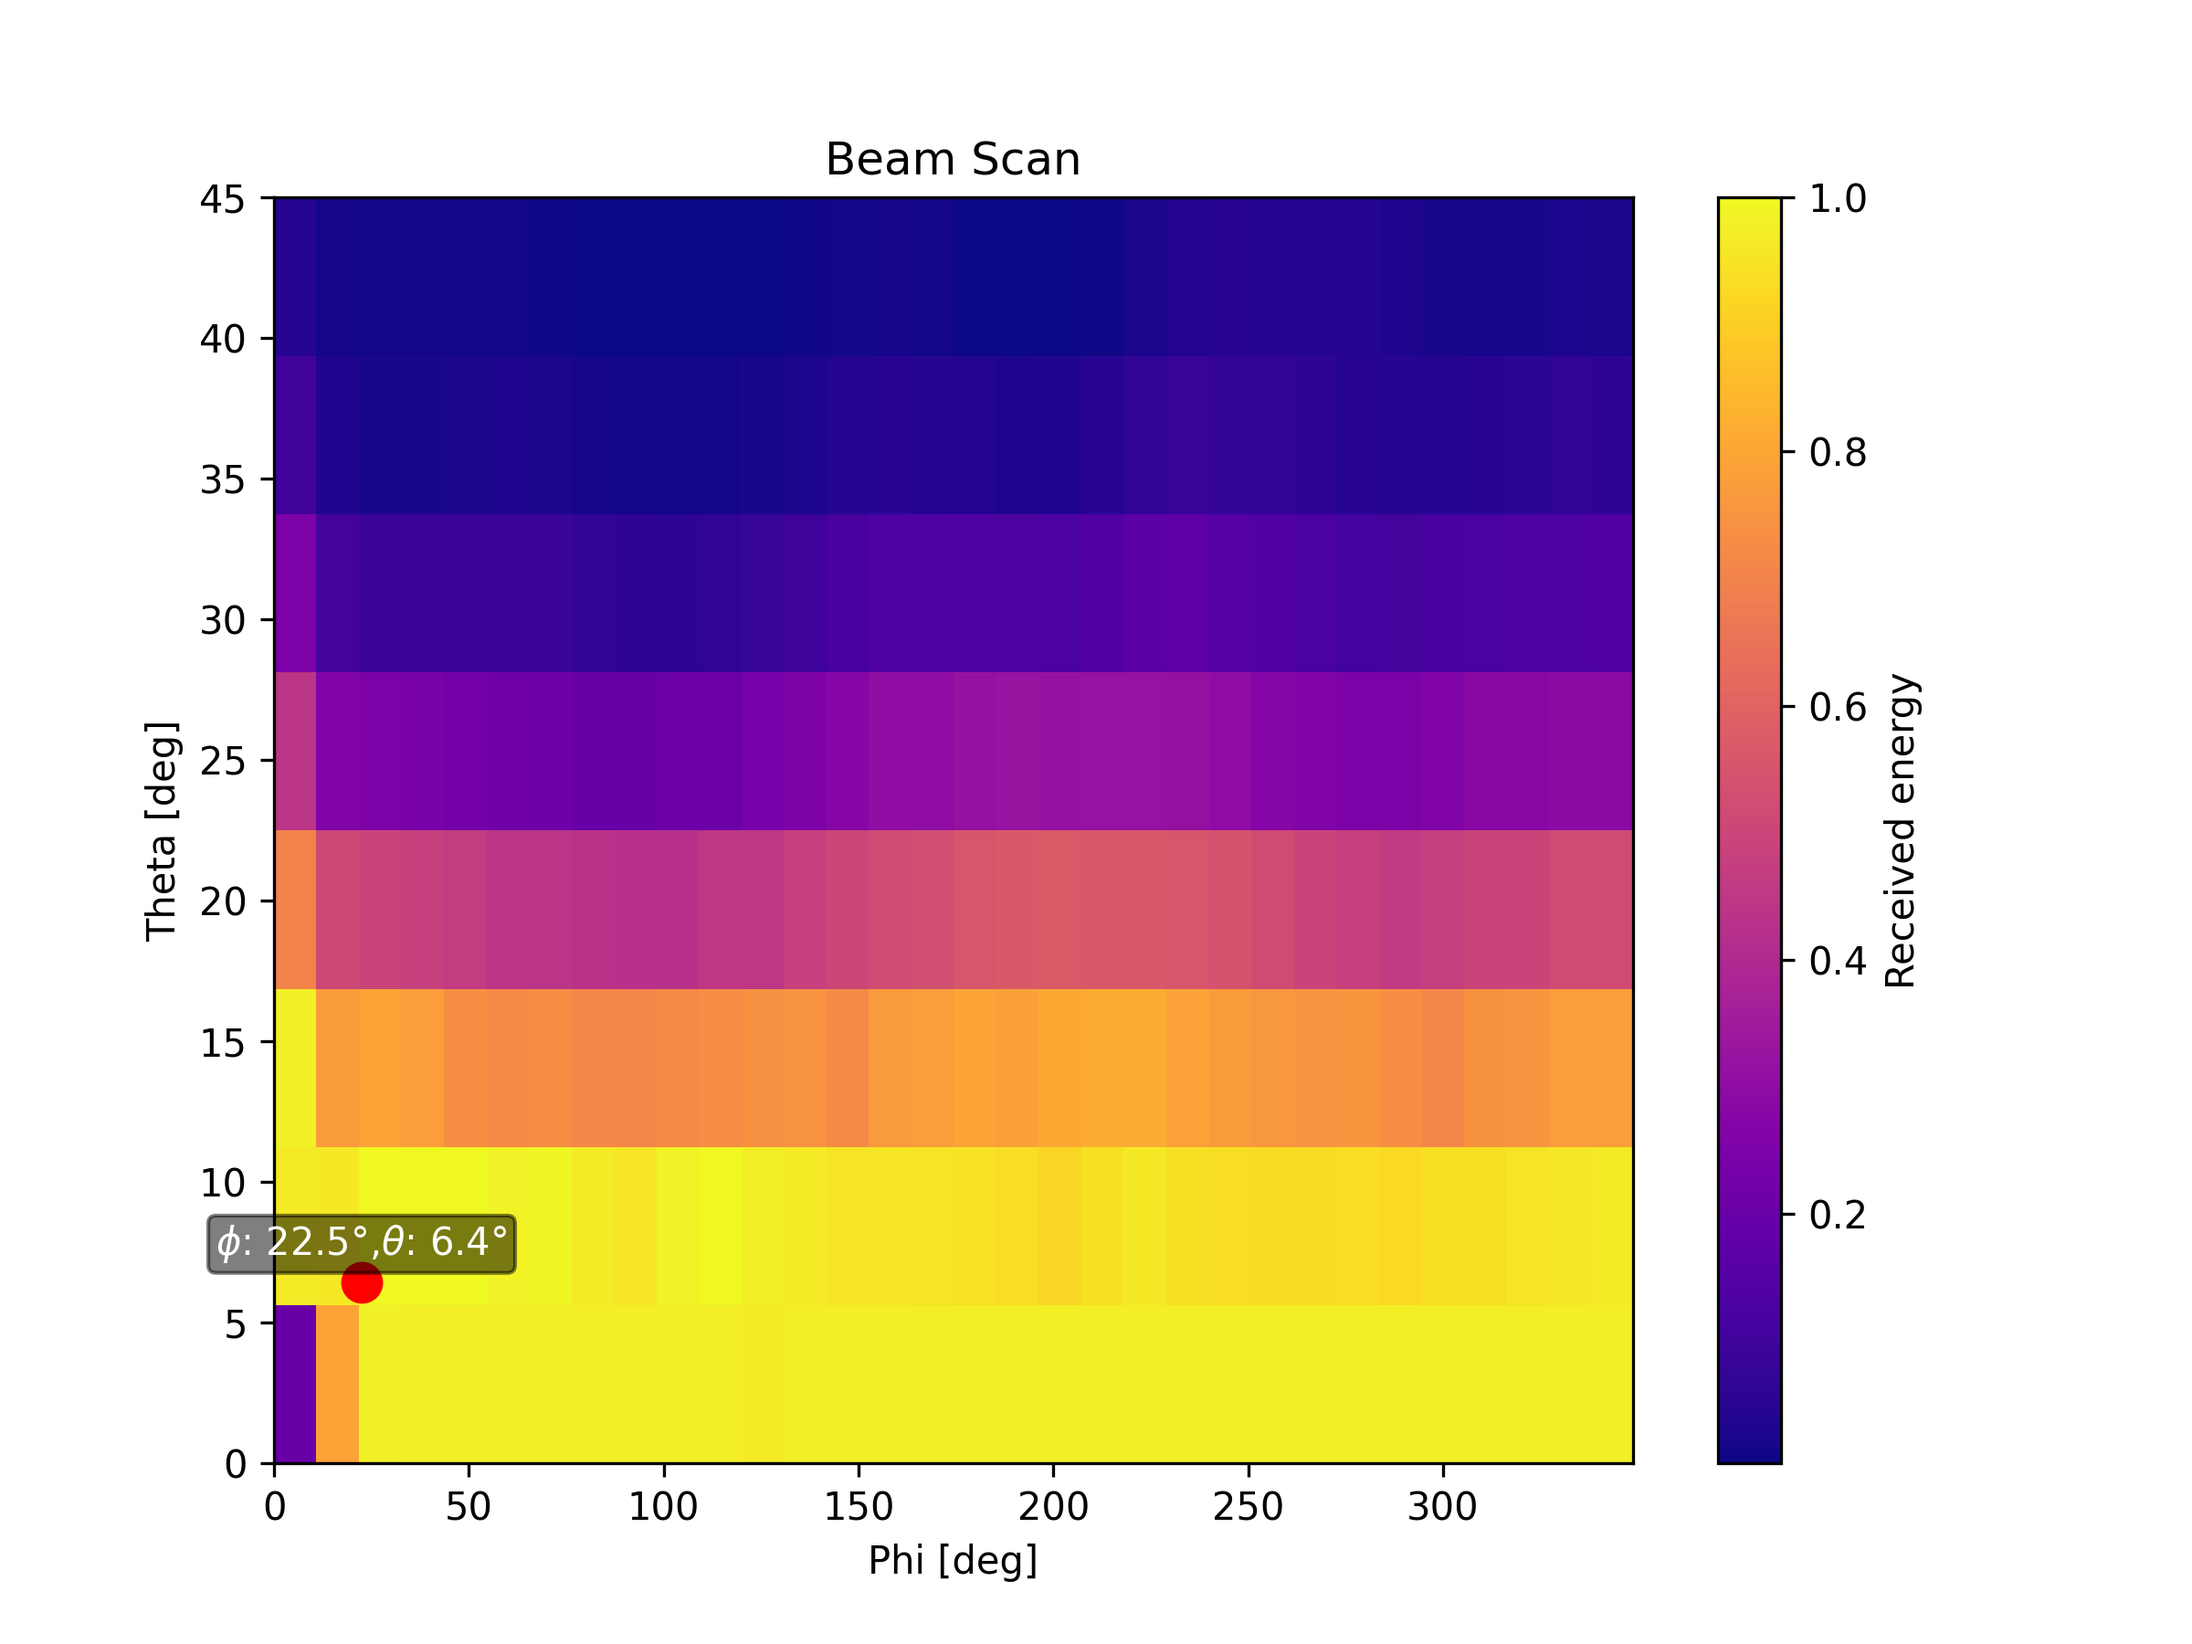
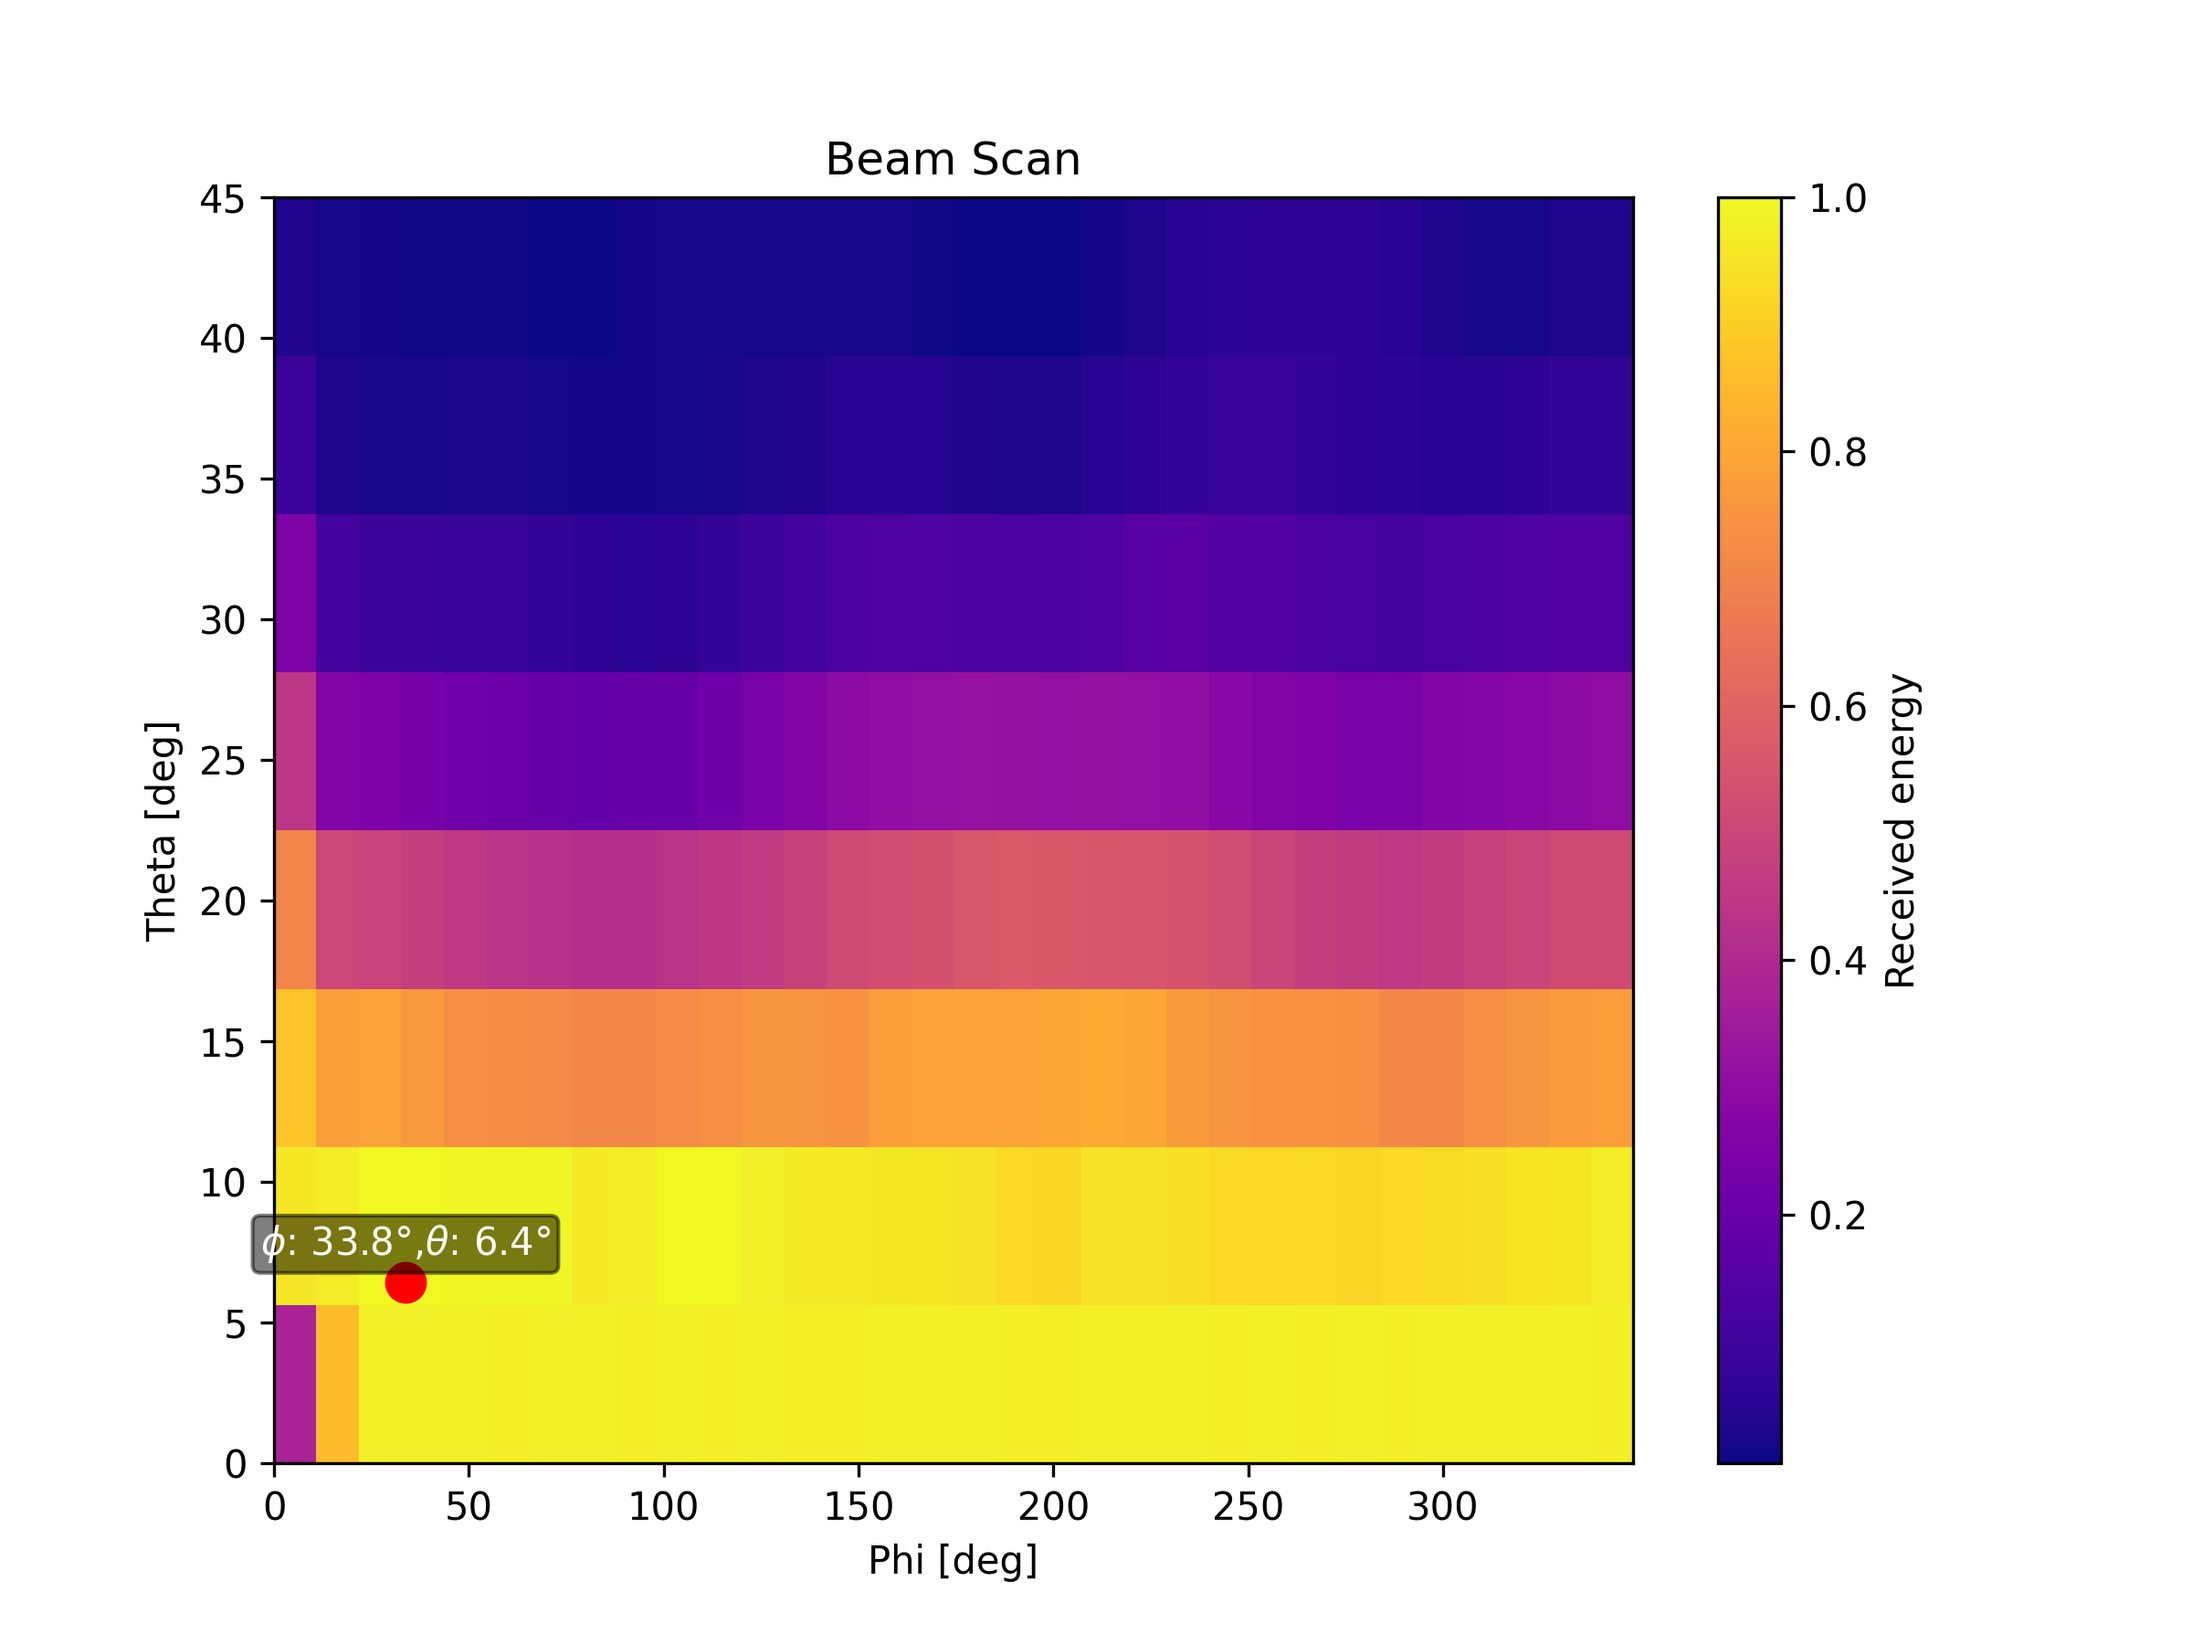
new images

Changed region(s): [[0.0938, 0.7156, 0.2812, 0.9022], [0.125, 0.5911, 0.1562, 0.7156]]

diff --git a/GUI/main.py b/GUI/main.py
@@ -1438,16 +1438,20 @@ def beam_page():
             async def scan_task():
                 # Launch the scan as an async background task
                 tx()
+                # warm up transmit 
+                asyncio.sleep(0.01)
                 # clear receive buffer 
-                for _ in range(3): 
+                for _ in range(10): 
                     discard_buffer()   
+
                 n_steps = len(DEFAULT_RX_GRID)
                 energies = np.zeros(n_steps)
 
                 for i, phases in enumerate(DEFAULT_RX_GRID):
                     send_phases(phases)
                     #takes about 147us to latch all and settle give it 200us to be safe
-                    await asyncio.sleep(200e-6)  # allow phase to stabilize / UI refresh
+                    await asyncio.sleep(100e-6)  # allow phase to stabilize / UI refresh
+                    discard_buffer()#just in case throw out sample
                     energies[i] = get_energy() #time to sample ~410us
                     label.set_text(f"Scanning {i+1}/{n_steps}")
 
